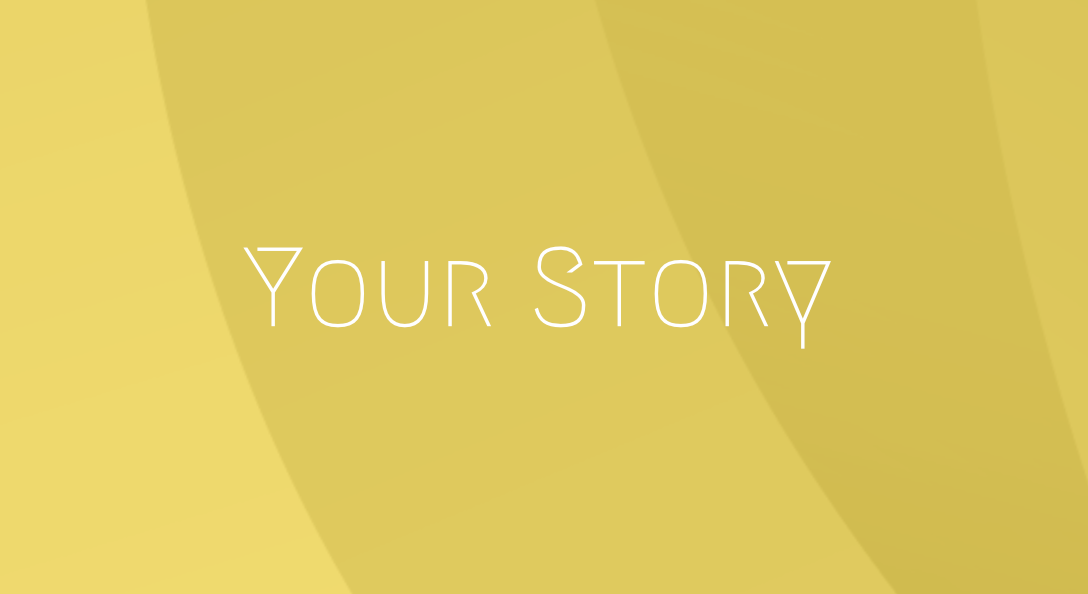
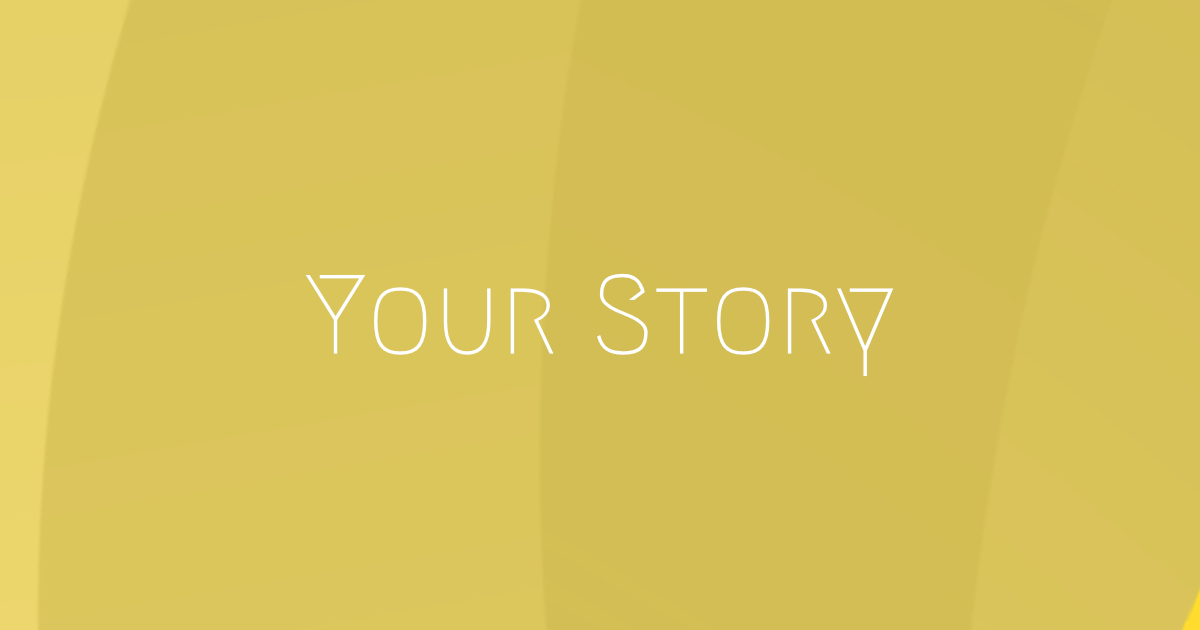
colour scheme fix

Changed region(s): [[0.2188, 0.3939, 0.7812, 0.6061], [0.9688, 0.9394, 1.0, 1.0]]

diff --git a/src/pages/events/emmas-story.js b/src/pages/events/emmas-story.js
@@ -5,6 +5,7 @@ import CodeBlock from '../../components/CodeBlock';
 import ImgCaption from '../../components/ImgCaption';
 import { Helmet } from 'react-helmet';
 import facebook from './img/story1/fb.png'
+import ResponsiveEmbed from 'react-responsive-embed'
 import { withScriptjs, withGoogleMap, GoogleMap, Marker } from "react-google-maps"
 
 const MyMapComponent = withScriptjs(withGoogleMap((props) =>
@@ -21,10 +22,8 @@ const PageMeta = () => (
             <Helmet>
               <meta name="description" content="description"
               />
-              <meta name="title" content="Event 1 | Story Bangor"
-              />
               <meta property="og:url" content="www.example.com" />
-              <meta property="og:title" content="Joe's Story | Story Bangor" />
+              <meta property="og:title" content="Event 2 | Story Bangor" />
               <meta
                 property="og:description"
                 content="description"
@@ -35,7 +34,7 @@ const PageMeta = () => (
               <meta name="twitter:card" content="summary_large_image" />
               <meta name="twitter:site" content="@story_bangor" />
               <meta name="twitter:creator" content="@story_bangor" />
-              <meta name="twitter:title" content="Joe's Story | Story Bangor" />
+              <meta name="twitter:title" content="Event 2 Story Bangor" />
               <meta
                 name="twitter:description"
                 content="description"
@@ -47,17 +46,27 @@ const PageMeta = () => (
 
 const Article = () => (
   <div>
-    <h2>Event 1</h2>
-    <p>Amazingly few discotheques provide jukeboxes. My girl wove six dozen plaid jackets before she quit. Six big devils from Japan quickly forgot how to waltz. Big July earthquakes confound zany experimental vow.</p>
+    <h2>Emma’s Story - Anorexia Loses Its Grip</h2>
+    <h3>Wednesday - 8pm - Hamilton Road Presbyterian Church</h3>
 
-<p>Foxy parsons quiz and cajole the lovably dim wiki-girl. Have a pick: twenty six letters - no forcing a jumbled quiz! Crazy Fredericka bought many very exquisite opal jewels. Sixty zippers were quickly picked from the woven jute bag. A quick movement of the enemy will jeopardize six gunboats. All questions asked by five watch experts amazed the judge. Jack quietly moved up front and seized the big ball of wax. The quick, brown fox jumps over a lazy dog.</p>
+<p>&lsquo;My version of repentance had no room for kindness,&rsquo; admits Emma. &lsquo;It said, &ldquo;Pull yourself together. Try harder. Do more… Fix your own mistakes or face the consequences…&rdquo; But real repentance looks very different. It’s the product of God’s kindness, undeserved and poured out without limit.&rsquo;</p>
 
-<p>DJs flock by when MTV ax quiz prog. Junk MTV quiz graced by fox whelps. Bawds jog, flick quartz, vex nymphs. Waltz, bad nymph, for quick jigs vex! Fox nymphs grab quick-jived waltz. Brick quiz whangs jumpy veldt fox. Bright vixens jump; dozy fowl quack. Quick wafting zephyrs vex bold Jim. Quick zephyrs blow, vexing daft Jim. Sex-charged fop blew my</p>
+<p>Come and hear Emma Scrivener’s deeply moving story and a talk from her husband Glen.</p>
+
+<h3>The Storytellers</h3>
+
+<h4>Emma Scrivener</h4>
+
+<p>Emma grew up in East Belfast during the Troubles. Throughout her teenage years and into adulthood she battled with anorexia. The illness almost ended her life twice. Emma still lives with the long-term effects of anorexia, but her story is one of great hope against all odds. She studied at Oxford University and her writing has been described by Professor John Wyatt as ‘beautiful, shocking, searingly honest and inspiring.’ To find out more about Emma, check out her award-winning blog: <a href="http://www.emmascrivener.net/my-story">www.emmascrivener.net/my-story</a></p>
+
+<h4>Glen Scrivener</h4>
+
+<p>Originally from Australia, Glen has lived in the UK for more than half his life. He’s often found speaking at churches and universities, in the studio creating online media, or in his office writing. Glen is married to Emma, and they have a daughter, Ruby.</p>
   </div>
 );
 
 const Homework = () => (
-  <DevHomework title="Event Details">
+<DevHomework title="Event Details">
     <MyMapComponent
       isMarkerShown
       googleMapURL="https://maps.googleapis.com/maps/api/js?v=3.exp&libraries=geometry,drawing,places"
@@ -68,4 +77,4 @@ const Homework = () => (
   </DevHomework>
 );
 
-export default () => <Main currentPageNum={2} article={<Article />} homework={<Homework />} pageMeta={<PageMeta />} />;
+export default () => <Main currentPageNum={3} article={<Article />} homework={<Homework />} pageMeta={<PageMeta />} />;

diff --git a/src/pages/events/bangors-story.js b/src/pages/events/bangors-story.js
@@ -5,7 +5,7 @@ import CodeBlock from '../../components/CodeBlock';
 import ImgCaption from '../../components/ImgCaption';
 import { Helmet } from 'react-helmet';
 import facebook from './img/story1/fb.png'
-import ResponsiveEmbed from 'react-responsive-embed'
+import abbey from './img/story1/bangor-abbey.jpg'
 import { withScriptjs, withGoogleMap, GoogleMap, Marker } from "react-google-maps"
 
 const MyMapComponent = withScriptjs(withGoogleMap((props) =>
@@ -22,8 +22,10 @@ const PageMeta = () => (
             <Helmet>
               <meta name="description" content="description"
               />
+              <meta name="title" content="Event 1 | Story Bangor"
+              />
               <meta property="og:url" content="www.example.com" />
-              <meta property="og:title" content="Event 2 | Story Bangor" />
+              <meta property="og:title" content="Joe's Story | Story Bangor" />
               <meta
                 property="og:description"
                 content="description"
@@ -34,7 +36,7 @@ const PageMeta = () => (
               <meta name="twitter:card" content="summary_large_image" />
               <meta name="twitter:site" content="@story_bangor" />
               <meta name="twitter:creator" content="@story_bangor" />
-              <meta name="twitter:title" content="Event 2 Story Bangor" />
+              <meta name="twitter:title" content="Joe's Story | Story Bangor" />
               <meta
                 name="twitter:description"
                 content="description"
@@ -46,17 +48,25 @@ const PageMeta = () => (
 
 const Article = () => (
   <div>
-    <h2>Event 2</h2>
-    <p>Amazingly few discotheques provide jukeboxes. My girl wove six dozen plaid jackets before she quit. Six big devils from Japan quickly forgot how to waltz. Big July earthquakes confound zany experimental vow.</p>
+    <h2>Bangor’s Story - Discover Our Heritage</h2>
+    <h3>Wednesday & Thursday 10am - Noon</h3>
+    <p>Come explore Bangor’s Christian heritage with David Irwin at the wheel and Robert McKinley as tour guide. Board the coach at Hamilton Road Presbyterian Church’s Welcome Centre and finish up with refreshments and a short talk about the historical Jesus from Glen Scrivener.</p>
+<img src={abbey} />
 
-<p>Foxy parsons quiz and cajole the lovably dim wiki-girl. Have a pick: twenty six letters - no forcing a jumbled quiz! Crazy Fredericka bought many very exquisite opal jewels. Sixty zippers were quickly picked from the woven jute bag. A quick movement of the enemy will jeopardize six gunboats. All questions asked by five watch experts amazed the judge. Jack quietly moved up front and seized the big ball of wax. The quick, brown fox jumps over a lazy dog.</p>
+<h3>The Storytellers</h3>
 
-<p>DJs flock by when MTV ax quiz prog. Junk MTV quiz graced by fox whelps. Bawds jog, flick quartz, vex nymphs. Waltz, bad nymph, for quick jigs vex! Fox nymphs grab quick-jived waltz. Brick quiz whangs jumpy veldt fox. Bright vixens jump; dozy fowl quack. Quick wafting zephyrs vex bold Jim. Quick zephyrs blow, vexing daft Jim. Sex-charged fop blew my</p>
+<h4>Robert McKinley</h4>
+
+<p>Robert is a Bangor man and was formerly Head of History in a Belfast secondary school. He is currently President of Bangor Historical Society. Robert is particularly interested in local and military history.</p>
+
+<h4>Glen Scrivener</h4>
+
+<p>Originally from Australia, Glen has lived in the UK for more than half his life. He’s often found speaking at churches and universities, in the studio creating online media, or in his office writing. Glen is married to Emma, and they have a daughter, Ruby.</p>
   </div>
 );
 
 const Homework = () => (
-<DevHomework title="Event Details">
+  <DevHomework title="Event Details">
     <MyMapComponent
       isMarkerShown
       googleMapURL="https://maps.googleapis.com/maps/api/js?v=3.exp&libraries=geometry,drawing,places"
@@ -67,4 +77,4 @@ const Homework = () => (
   </DevHomework>
 );
 
-export default () => <Main currentPageNum={3} article={<Article />} homework={<Homework />} pageMeta={<PageMeta />} />;
+export default () => <Main currentPageNum={2} article={<Article />} homework={<Homework />} pageMeta={<PageMeta />} />;

diff --git a/src/styles/_config.scss b/src/styles/_config.scss
@@ -7,11 +7,12 @@
 
 $white          : #fff;
 $black          : #000;
-$primary        : #2DB1FF;
-$primary-high   : #2DB1FF;
+$primary        : #1e97b2;
+$primary-high   : #1e97b2;
 $primary-low    : darken($primary-high, 20%);
-$blue           : #2DB1FF;
+$blue           : #1e97b2;
 $blue-dark      : darken($blue, 20%);
+$purple         : #551a8b;
 $cyan           : #2FCCE1;
 $yellow         : #fff852;
 

diff --git a/src/styles/components/_hero.scss b/src/styles/components/_hero.scss
@@ -7,7 +7,7 @@
   padding: space(10) 0 space(10);
   background-color: $blue;
   background-image: linear-gradient(60deg, rgba($blue, 0.8) 0%, rgba($blue-dark, 0.8)), url(../components/img/bangor2.jpg);
-    background-position: center 30%;
+    background-position: center 60%;
     background-repeat: no-repeat;
     background-size: cover;
   text-align: center;

diff --git a/src/data/events.js b/src/data/events.js
@@ -6,13 +6,13 @@ const pageData = [
   },
   {
     order: 2,
-    title: 'Event 1',
-    link: '/events/event-1',
+    title: 'Bangor\'s Story',
+    link: '/events/bangors-story',
   },
   {
     order: 3,
-    title: 'Event 2',
-    link: '/events/event-2',
+    title: 'Emma\'s Story',
+    link: '/events/emmas-story',
   },
   {
     order: 4,

diff --git a/src/pages/index.js b/src/pages/index.js
@@ -19,7 +19,7 @@ const index = () => (
       <div className="container">
         <div className="col-md-6 col-md-offset-3 mt3">
           <p className="mb6">
-            Something here
+            Reaching Bangor with the greatest story ever told
           </p>
         </div>
       </div>

diff --git a/src/styles/layout/_side.scss b/src/styles/layout/_side.scss
@@ -5,8 +5,8 @@
 $_circle-radius: 40px;
 $_circle-color-done: #C0D0F3;
 $_circle-color: #EEEEEE;
-$_circle-active-color-1: #FFC73D;
-$_circle-active-color-2: #FF722A;
+$_circle-active-color-1: #551a8b;
+$_circle-active-color-2: lighten(#551a8b, 30%);
 
 .side {
   @include span(4);

diff --git a/src/styles/layout/_homework.scss b/src/styles/layout/_homework.scss
@@ -3,7 +3,7 @@
 // ----------------------------------------------------------------------------
 
 .homework {
-  background-color: darken($blue, 50%);
+  background-color: darken($blue, 35%);
   padding: space(4);
   color: white;
   text-align: center;
